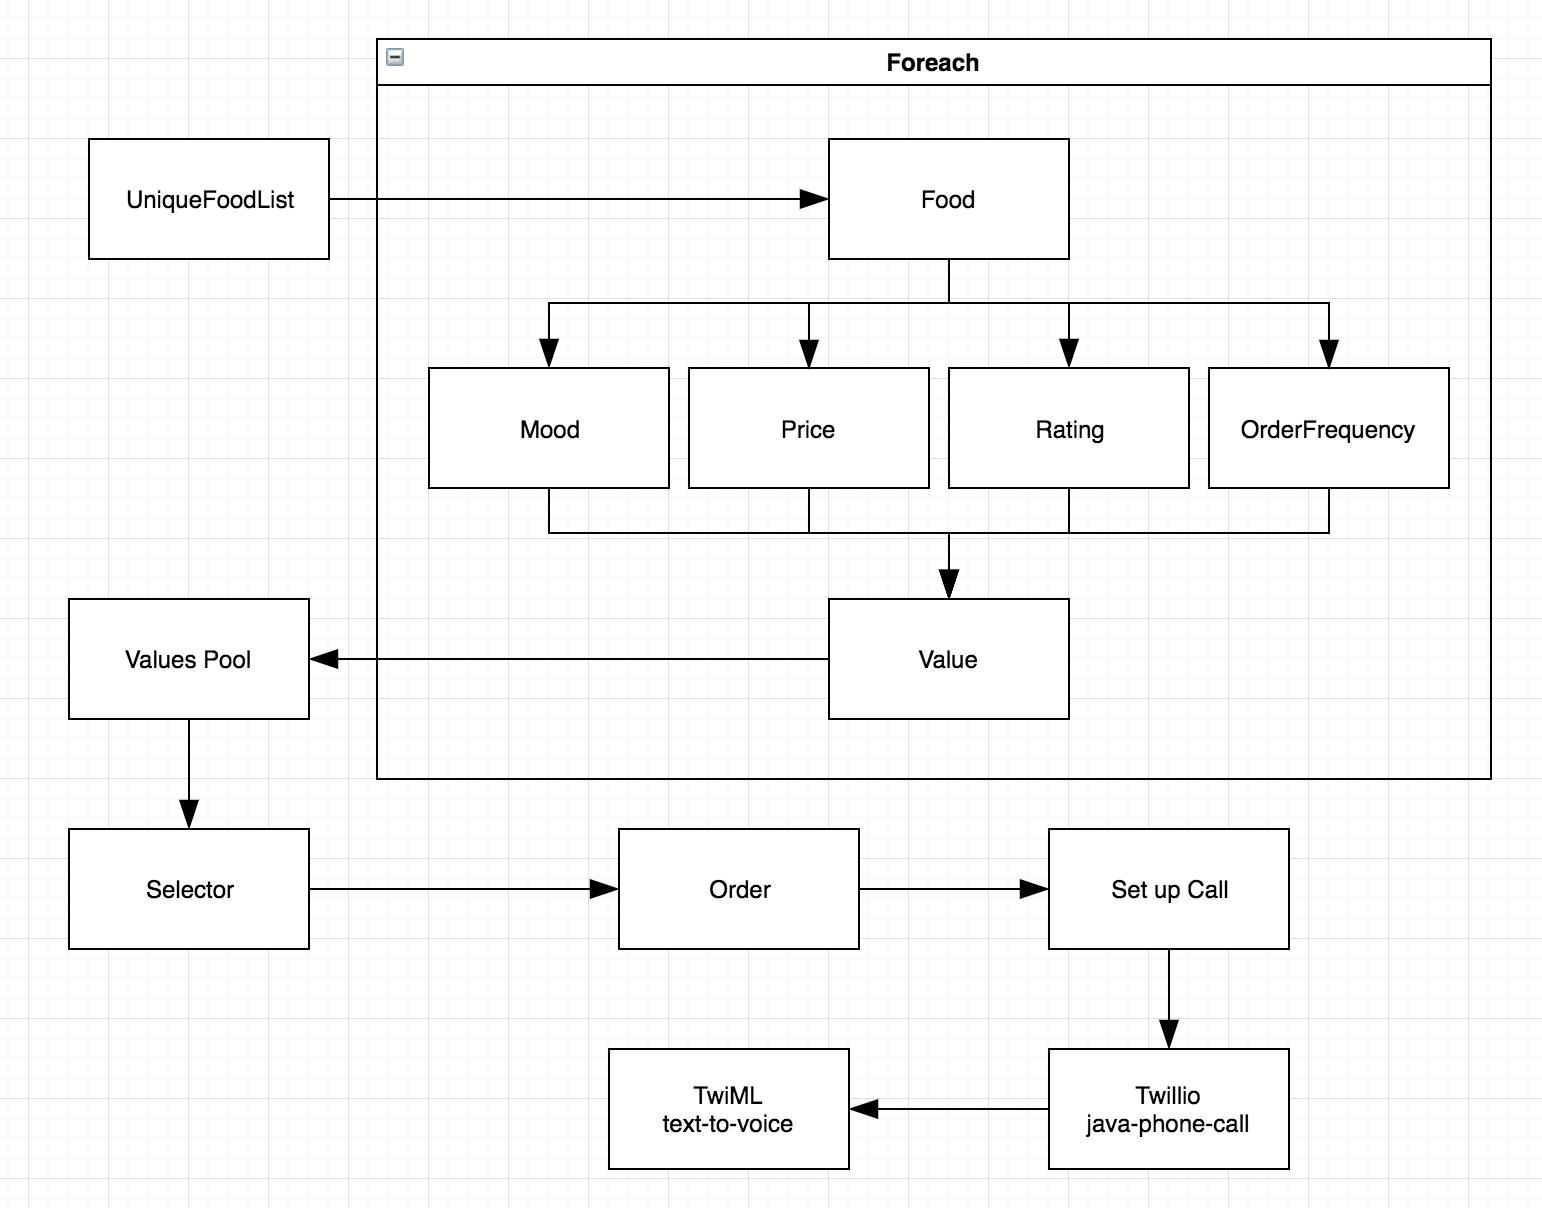
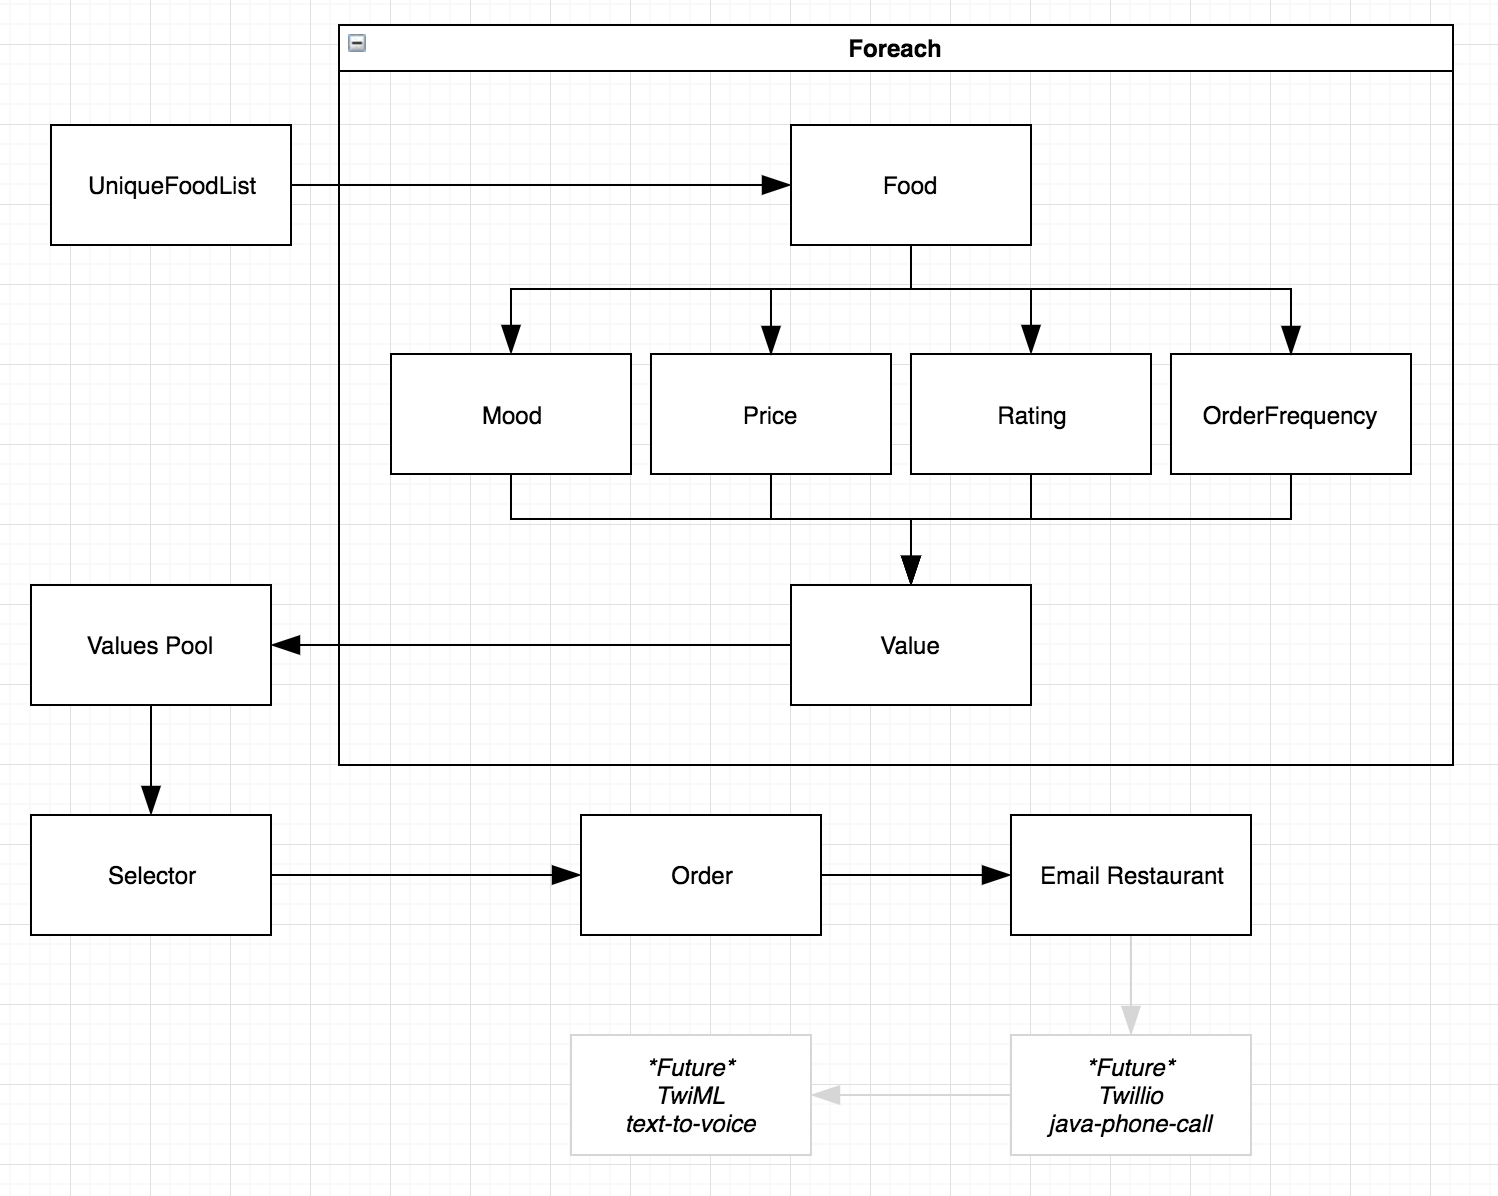
Refactored documentaion to reflect new utility: email (instead of dialing)

diff --git a/src/main/java/seedu/address/logic/commands/OrderCommand.java b/src/main/java/seedu/address/logic/commands/OrderCommand.java
@@ -21,11 +21,9 @@ public class OrderCommand extends UndoableCommand {
     public static final String MESSAGE_USAGE = COMMAND_WORD + ": Orders a food "
             + "Parameters: INDEX (must be a positive integer) ";
 
-    public static final String MESSAGE_SUCCESS = "Beginning to order %1$s. Ringing %2$s. Please wait.";
-    public static final String MESSAGE_SELECT_FAIL = "Unable to select food at random.";
-    public static final String MESSAGE_DIAL_FAIL_FOOD = "Order failure for: %s";
-    public static final String MESSAGE_DIAL_FAIL_PHONE = "Failed to dial %s";
-    public static final String MESSAGE_DIAL_FAIL = MESSAGE_DIAL_FAIL_FOOD + ". " + MESSAGE_DIAL_FAIL_PHONE + ".";
+    public static final String MESSAGE_SUCCESS = "Successfully emailed restaurant for %1$s";
+    public static final String MESSAGE_SELECT_FAIL = "Unable to select food at random";
+    public static final String MESSAGE_EMAIL_FAIL_FOOD = "Order failure for: %s";
 
     private Food toOrder;
     private Index index;
@@ -43,9 +41,9 @@ public class OrderCommand extends UndoableCommand {
             OrderManager manager = new OrderManager(model.getAddressBook().getUserProfile(), toOrder);
             manager.order();
 
-            return new CommandResult(String.format(MESSAGE_SUCCESS, toOrder.getName(), toOrder.getPhone()));
+            return new CommandResult(String.format(MESSAGE_SUCCESS, toOrder.getName()));
         } catch (Exception e) {
-            throw new CommandException(String.format(MESSAGE_DIAL_FAIL, toOrder.getName(), toOrder.getPhone()));
+            throw new CommandException(String.format(MESSAGE_EMAIL_FAIL_FOOD, toOrder.getName()));
         }
     }
 

diff --git a/src/test/java/seedu/address/logic/commands/OrderCommandTest.java b/src/test/java/seedu/address/logic/commands/OrderCommandTest.java
@@ -44,10 +44,10 @@ public class OrderCommandTest {
         try {
             CommandResult result = orderCommand.execute();
             assertThat(result.feedbackToUser, containsString(String.format(OrderCommand.MESSAGE_SUCCESS,
-                    food.getName(), food.getName())));
+                    food.getName())));
         } catch (Exception e) {
-            assertThat(e.getMessage(), containsString(String.format(OrderCommand.MESSAGE_DIAL_FAIL,
-                    food.getName(), food.getPhone())));
+            assertThat(e.getMessage(), containsString(String.format(OrderCommand.MESSAGE_EMAIL_FAIL_FOOD,
+                    food.getName())));
         }
     }
 
@@ -59,8 +59,8 @@ public class OrderCommandTest {
             assertThat(result.feedbackToUser, containsString(String.format(OrderCommand.MESSAGE_SUCCESS,
                     "", "")));
         } catch (Exception e) {
-            assertThat(e.getMessage(), containsString(String.format(OrderCommand.MESSAGE_DIAL_FAIL_FOOD, "")));
-            assertThat(e.getMessage(), containsString(String.format(OrderCommand.MESSAGE_DIAL_FAIL_PHONE, "")));
+            assertThat(e.getMessage(), containsString(String.format(OrderCommand.MESSAGE_EMAIL_FAIL_FOOD, "")));
+            assertThat(e.getMessage(), containsString(String.format(OrderCommand.MESSAGE_EMAIL_FAIL_FOOD, "")));
         }
     }
 

diff --git a/src/main/java/seedu/address/logic/orderer/OrderManager.java b/src/main/java/seedu/address/logic/orderer/OrderManager.java
@@ -110,7 +110,7 @@ public class OrderManager {
 
             // Send message
             Transport.send(message);
-            System.out.println("Sent message successfully....");
+
         } catch (MessagingException mex) {
             mex.printStackTrace();
         }
